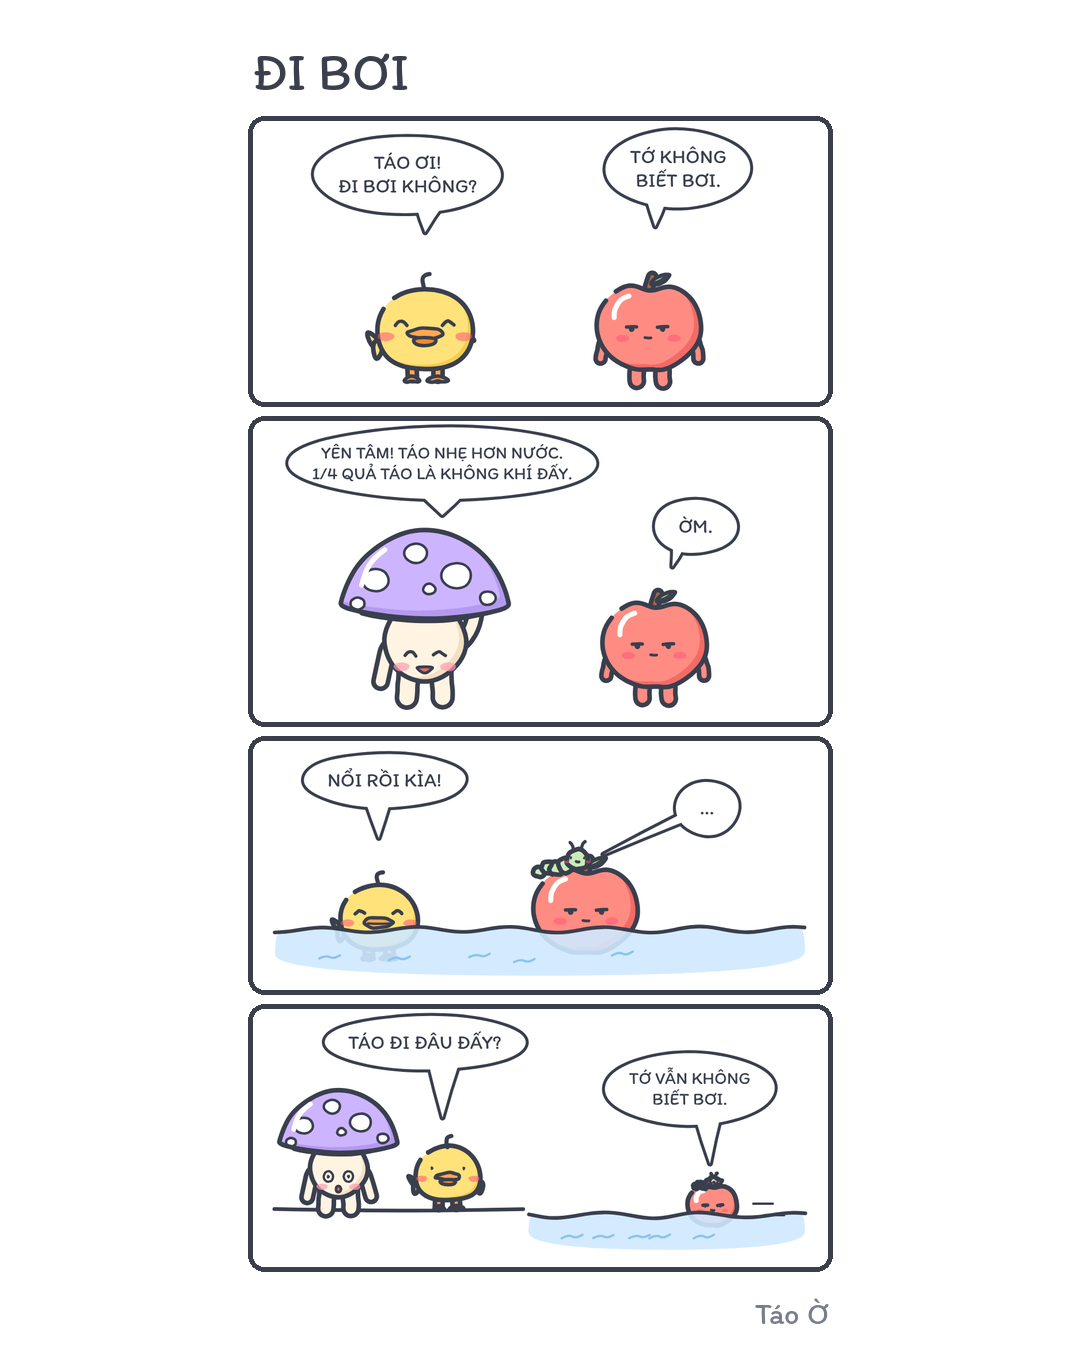
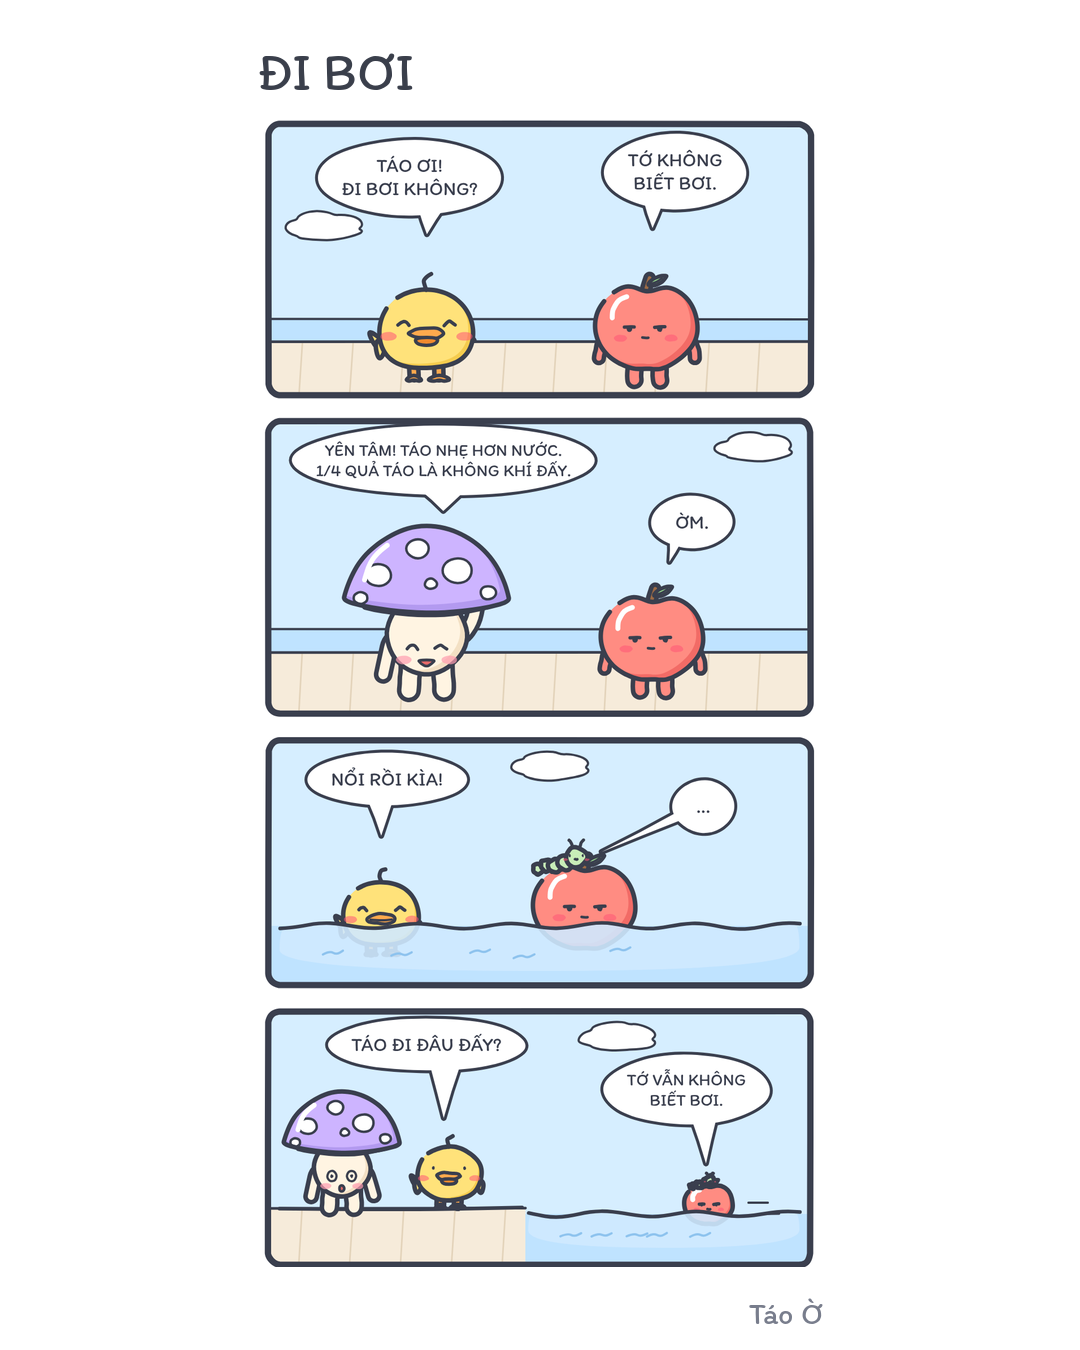
Comics: poolside backgrounds and frames for Đi bơi
Claude-Session: https://claude.ai/code/session_01FoSJyPsnkh1zBYsHdc1KYP

diff --git a/comics/family.ts b/comics/family.ts
@@ -448,6 +448,44 @@ export function strip(c: CanvasRenderingContext2D): void {
   sk.line([[PW / 2 - 150, 104], [PW / 2 + 150, 106]], nid(), { width: LW * 0.5, amp: 1.5 });
   const G = (i: number) => TOP + PH * i + PH - 40;
 
+  // Panel backgrounds (poolside): rects match the crops used for the Facebook cut (comics/fb_rows.py).
+  const PANELS: [number, number][] = [[175, 655], [670, 1190], [1300, 1735], [1800, 2250]];
+  const SKY = '#D6EEFF', TILE = '#F6EBDA', TILE_LINE = '#E3D3BA', POOL = '#BFE3FF';
+  const tiles = (x0: number, x1: number, y0: number, y1: number) => {
+    c.fillStyle = TILE; c.fillRect(x0, y0, x1 - x0, y1 - y0);
+    for (let x = x0 + 60; x < x1; x += 90) sk.line([[x, y0 + 4], [x - 6, y1]], nid(), { width: LW * 0.35, color: TILE_LINE, amp: 0.5 });
+    sk.line([[x0, y0], [x1, y0]], nid(), { width: LW * 0.6, amp: 1 });
+  };
+  const sky = (y0: number, y1: number, clouds: Pt[]) => {
+    c.fillStyle = SKY; c.fillRect(20, y0, PW - 40, y1 - y0);
+    for (const [x, y] of clouds) sk.shape(scallop(x, y, 60, 26, 5, 0.18, 40), nid(), { fill: '#FFFFFF', width: LW * 0.5 });
+  };
+  const clipPanel = (i: number, fn: () => void) => {
+    const [y0, y1] = PANELS[i];
+    c.save(); sk.trace(rrectPts(20, y0, PW - 40, y1 - y0, 22), true); c.clip(); fn(); c.restore();
+  };
+  clipPanel(0, () => {
+    sky(175, 655, [[120, 360]]);
+    c.fillStyle = POOL; c.fillRect(20, G(0) - 110, PW - 40, 40);
+    sk.line([[20, G(0) - 110], [PW - 20, G(0) - 110]], nid(), { width: LW * 0.5, amp: 1 });
+    tiles(20, PW - 20, G(0) - 70, 655);
+  });
+  clipPanel(1, () => {
+    sky(670, 1190, [[880, 720]]);
+    c.fillStyle = POOL; c.fillRect(20, G(1) - 110, PW - 40, 40);
+    sk.line([[20, G(1) - 110], [PW - 20, G(1) - 110]], nid(), { width: LW * 0.5, amp: 1 });
+    tiles(20, PW - 20, G(1) - 70, 1190);
+  });
+  clipPanel(2, () => {
+    sky(1300, 1735, [[520, 1350]]);
+    c.fillStyle = POOL; c.fillRect(20, G(2) - 40, PW - 40, 1735 - (G(2) - 40));
+  });
+  clipPanel(3, () => {
+    sky(1800, 2250, [[640, 1850]]);
+    c.fillStyle = POOL; c.fillRect(470, G(3) - 30, PW - 490, 2250 - (G(3) - 30));
+    tiles(20, 475, G(3) - 40, 2250);
+  });
+
   // Panel 1: Vịt invites, Táo can't swim.
   let g = G(0);
   place(sk, 300, g, 0.62, 1, () => duck(sk, 'happy', 'open', -2.4));
@@ -485,6 +523,10 @@ export function strip(c: CanvasRenderingContext2D): void {
   say(sk, 300, g - 330, ['TÁO ĐI ĐÂU ĐẤY?'], [330, g - 200]);
   say(sk, 760, g - 250, ['TỚ VẪN KHÔNG', 'BIẾT BƠI.'], [795, g - 120], 30);
   for (const [x, y] of [[870, g - 50], [890, g - 30]] as Pt[]) sk.line([[x, y], [x + 34, y]], nid(), { width: LW * 0.5, amp: 0.5 });
+  for (const [y0, y1] of PANELS) {
+    sk.trace(sk.wobble(rrectPts(20, y0, PW - 40, y1 - y0, 22), nid(), 1), true);
+    c.lineWidth = sk.px(LW * 1.4); c.strokeStyle = INK; c.lineJoin = 'round'; c.stroke();
+  }
 }
 
 // ======================= Strip #2: 4 wide framed panels =======================

diff --git a/comics/fb_rows.py b/comics/fb_rows.py
@@ -20,7 +20,6 @@ def stack(src_path: str, out: str, title: str, *spans: str) -> None:
     for r in rows:
         r = r.resize((w, int(r.height * k)), Image.LANCZOS)
         im.paste(r, (x0, y))
-        d.rounded_rectangle((x0 - 4, y - 4, x0 + w + 4, y + r.height + 4), radius=16, outline=INK, width=5)
         y += r.height + gap
     big, small = ImageFont.truetype(FONT, 52), ImageFont.truetype(FONT, 30)
     d.text((x0, 40), title, font=big, fill=INK)
